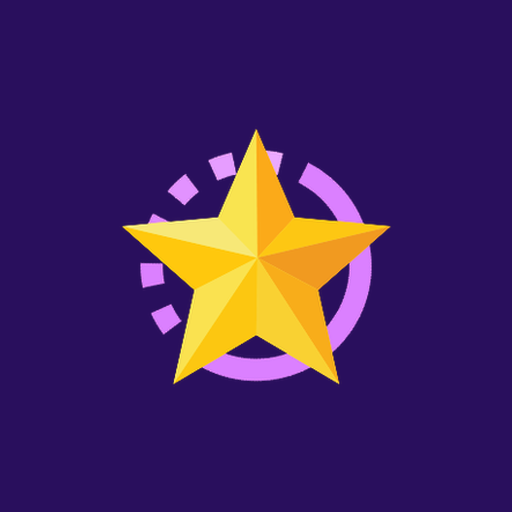
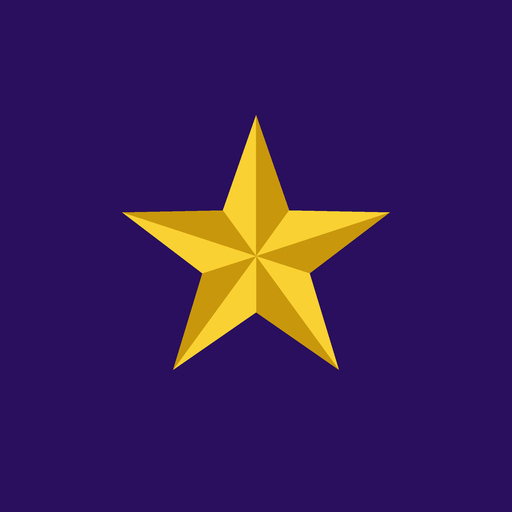
Ícone do app: estrela geométrica chapada
A estrela antiga tinha sombreado contínuo e um anel tracejado em volta — dois
detalhes que somem a 48px e brigam com a regra de "cores chapadas, sem
degradê" da identidade.

- Estrela de 5 pontas facetada em DOIS tons chapados do amarelo oficial
  (#F9D132 e #C9970C): o volume vem do recorte dos polígonos, não de degradê.
- Saiu o anel tracejado: a 48px ele virava sujeira em volta da estrela.
- icon-512, icon-192 e marca-estrela (topbar e tela de entrada) refeitos.
- A versão maskable encolhe a estrela para 55% do quadrado, para o Android
  não cortar as pontas no recorte circular.
- A tela de entrada perdeu o brilho lilás atrás da estrela: contra o branco do
  cartão ele sujava o contorno geométrico. Ficou uma sombra discreta.

Testes: 196 unitários e 245 E2E (os 2 que faltam para 247 são o cenário da
"aba de ontem", pulado porque hoje é segunda).

Claude-Session: https://claude.ai/code/session_01URJUB3E7qbi9FuMCRBNJiw

Changed region(s): [[0.2188, 0.2188, 0.7812, 0.75]]

diff --git a/public/index.html b/public/index.html
@@ -698,7 +698,9 @@ body.destravando{opacity:.999}
   border:1px solid var(--borda2);border-radius:26px;box-shadow:var(--sombra-2);position:relative;overflow:hidden}
 .login-box::before{content:'';position:absolute;left:0;right:0;top:0;height:1px;
   background:var(--lilas-tint)}
-.login-logo{filter:drop-shadow(0 8px 18px rgba(var(--glow-rgb),.45));animation:flutua 5s ease-in-out infinite;
+/* a estrela é chapada: sombra discreta, sem o brilho colorido que sujava o
+   contorno geométrico contra o branco do cartão */
+.login-logo{filter:drop-shadow(0 6px 14px rgba(41,15,93,.22));animation:flutua 5s ease-in-out infinite;
   display:flex;justify-content:center}
 .login-logo{width:110px;height:110px;object-fit:contain;display:block}
 .logo-mark{display:inline-flex;align-items:center;gap:8px}

diff --git a/public/sw.js b/public/sw.js
@@ -1,5 +1,5 @@
 /* NEW STAR — service worker: app shell cache-first (offline 100%) */
-const VERSAO = 'promptstar-v63';
+const VERSAO = 'promptstar-v64';
 const SHELL = [
   './', './index.html', './manifest.webmanifest', './icon.svg',
   './icon-192.png', './icon-512.png', './icon-maskable.png',
